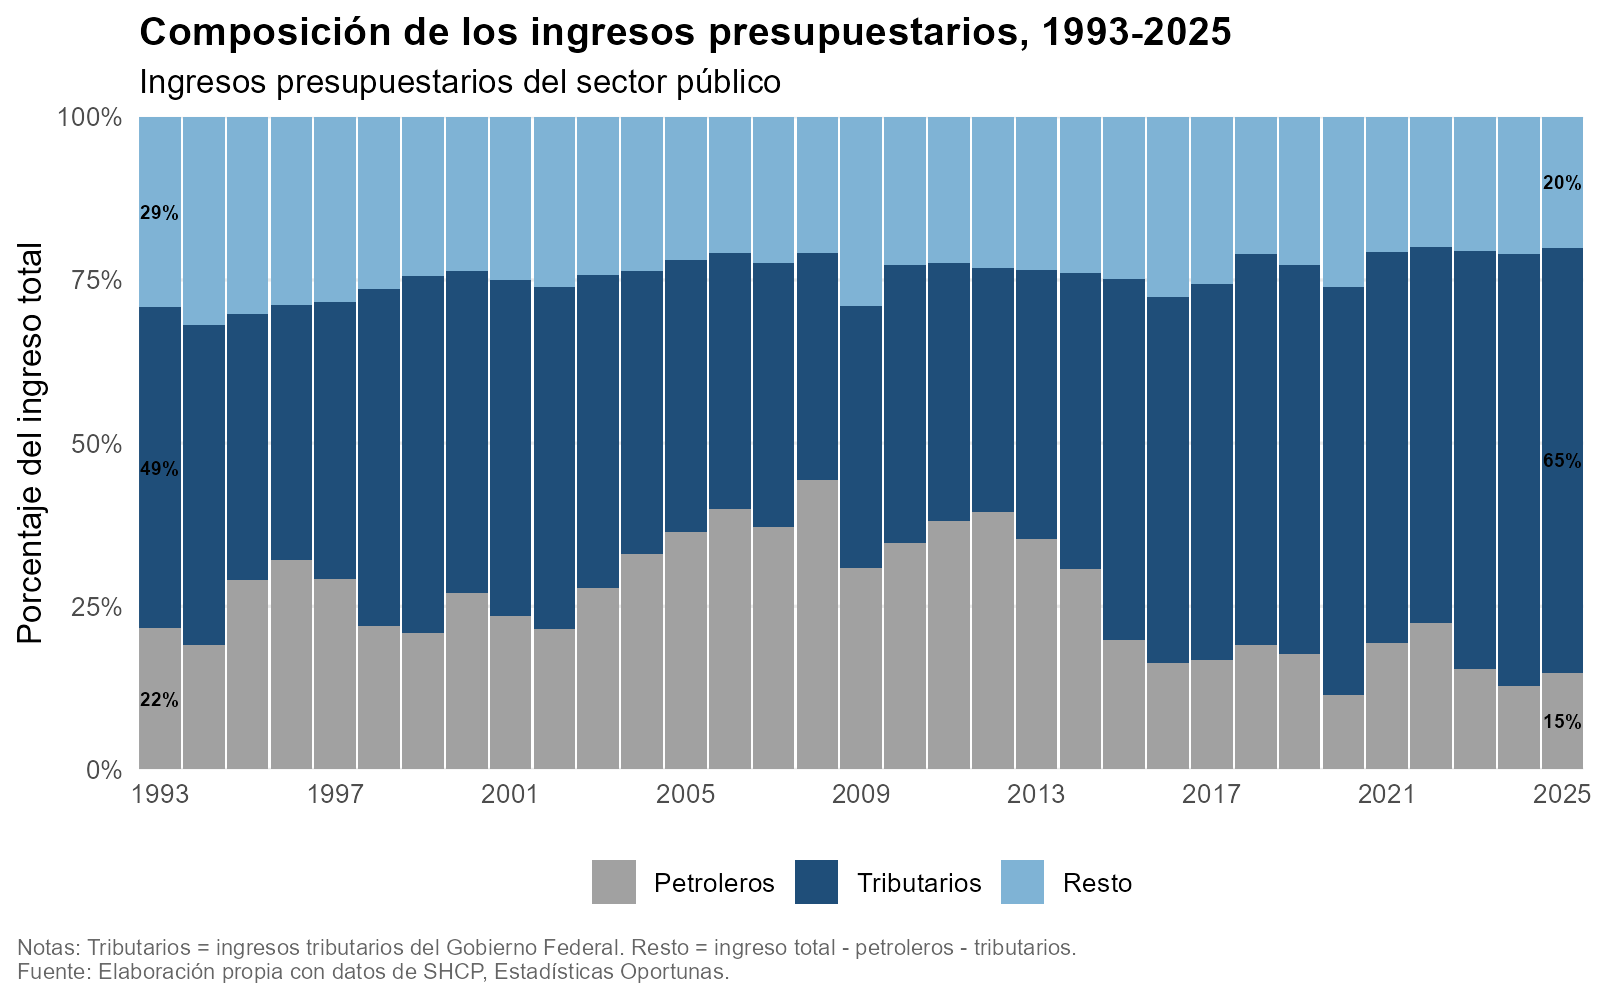
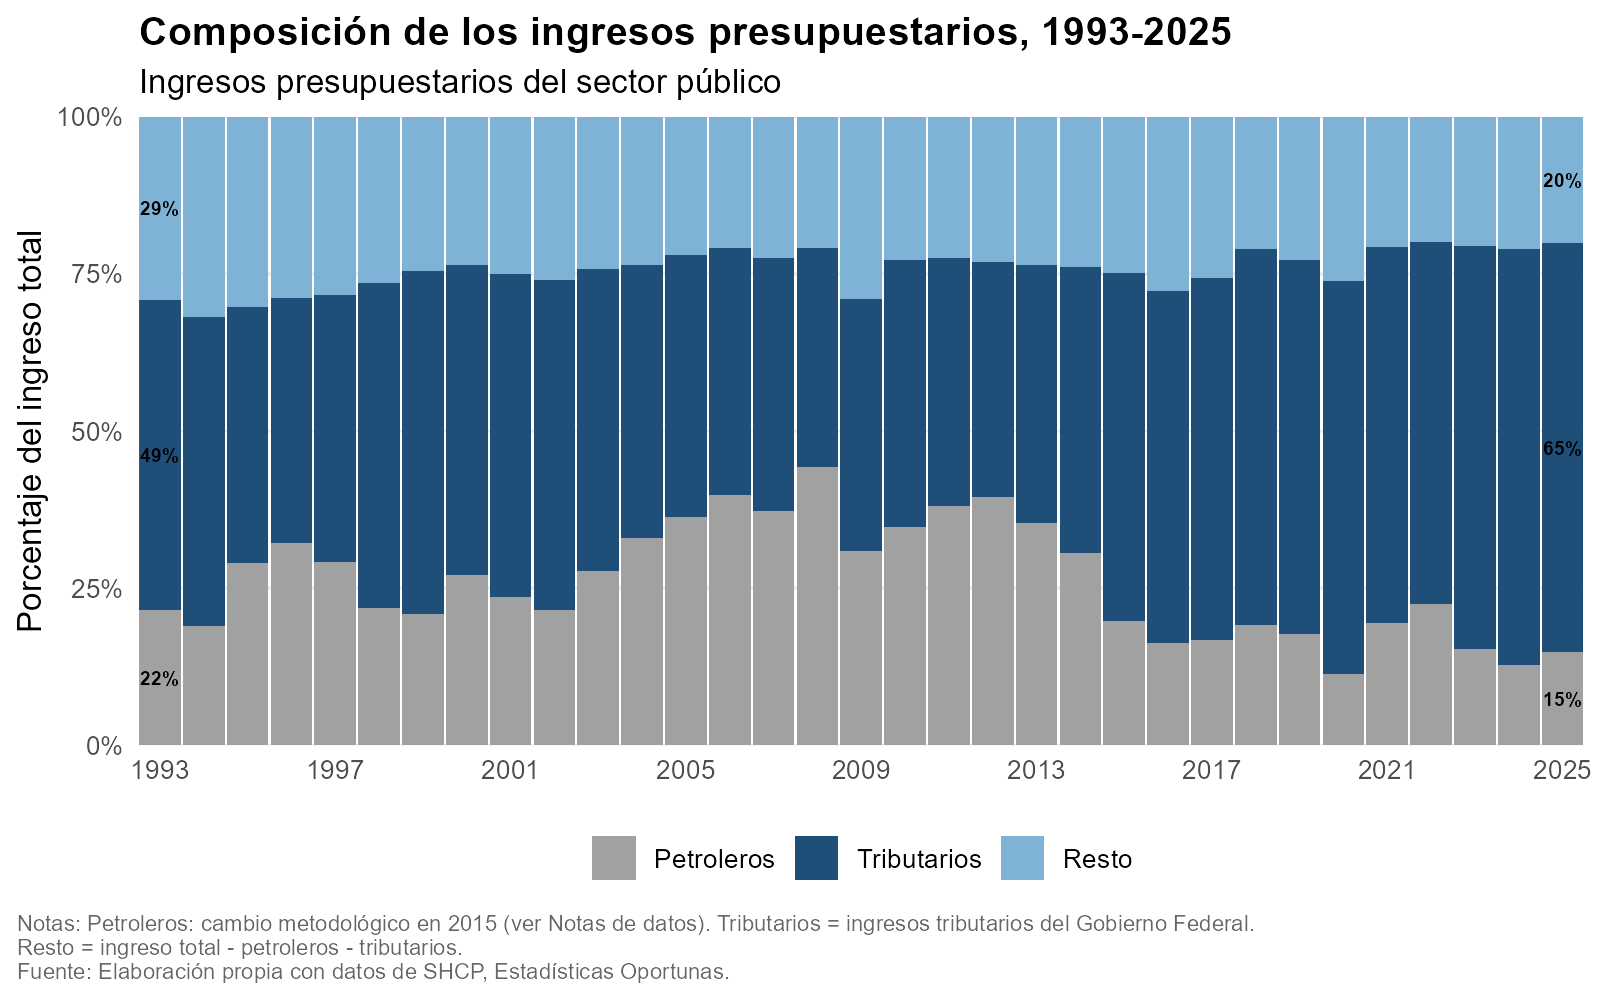
docs: agrega nota de metodología de Petroleros en 2015 en texto y gráfica

diff --git a/analysis/analisis_finanzas_publicas_mexico.md b/analysis/analisis_finanzas_publicas_mexico.md
@@ -363,7 +363,7 @@ grafica_composicion <- ggplot(ingresos_largo, aes(x = anio, y = pct, fill = conc
     x = NULL,
     y = "Porcentaje del ingreso total",
     fill = NULL,
-    caption = "Notas: Tributarios = ingresos tributarios del Gobierno Federal. Resto = ingreso total - petroleros - tributarios. \nFuente: Elaboración propia con datos de SHCP, Estadísticas Oportunas."
+    caption = "Notas: Petroleros: cambio metodológico en 2015 (ver Notas de datos). Tributarios = ingresos tributarios del Gobierno Federal. \nResto = ingreso total - petroleros - tributarios. \nFuente: Elaboración propia con datos de SHCP, Estadísticas Oportunas."
   ) +
   theme_minimal(base_size = 12) +
   theme(
@@ -391,7 +391,9 @@ Los ingresos tributarios del Gobierno Federal son el componente más
 grande de los ingresos presupuestarios en 30 de los 33 años del periodo
 1993-2025. Los ingresos petroleros lo superan solo en 2006, 2008 y 2012,
 con 39.8%, 44.3% y 39.4% del total, respectivamente. En 2006 superaron a
-los tributarios (39.3%) por 0.5 puntos porcentuales.
+los tributarios (39.3%) por 0.5 puntos porcentuales (el concepto
+Petroleros cambia de composición en 2015, ver Notas de datos para más
+detalles).
 
 **Composición del ingreso (participación %)**
 
